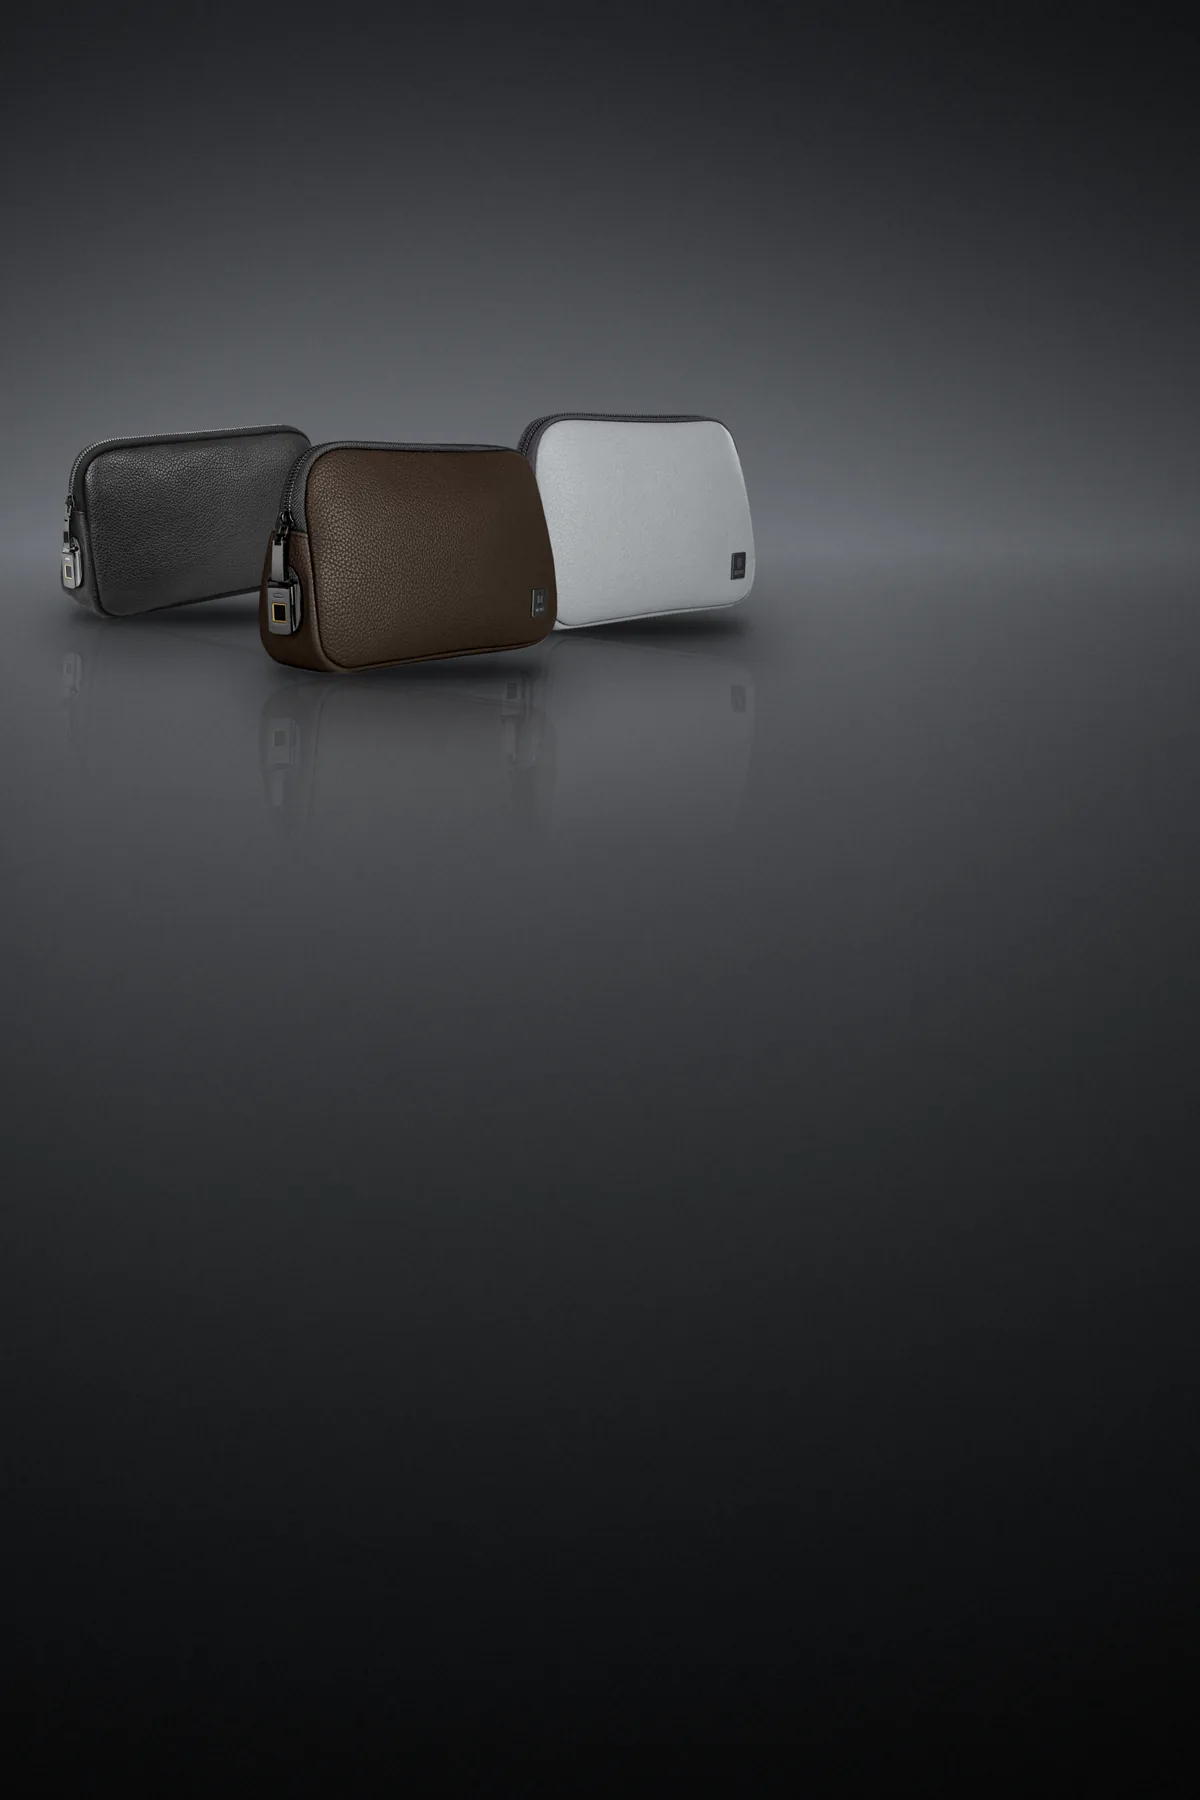
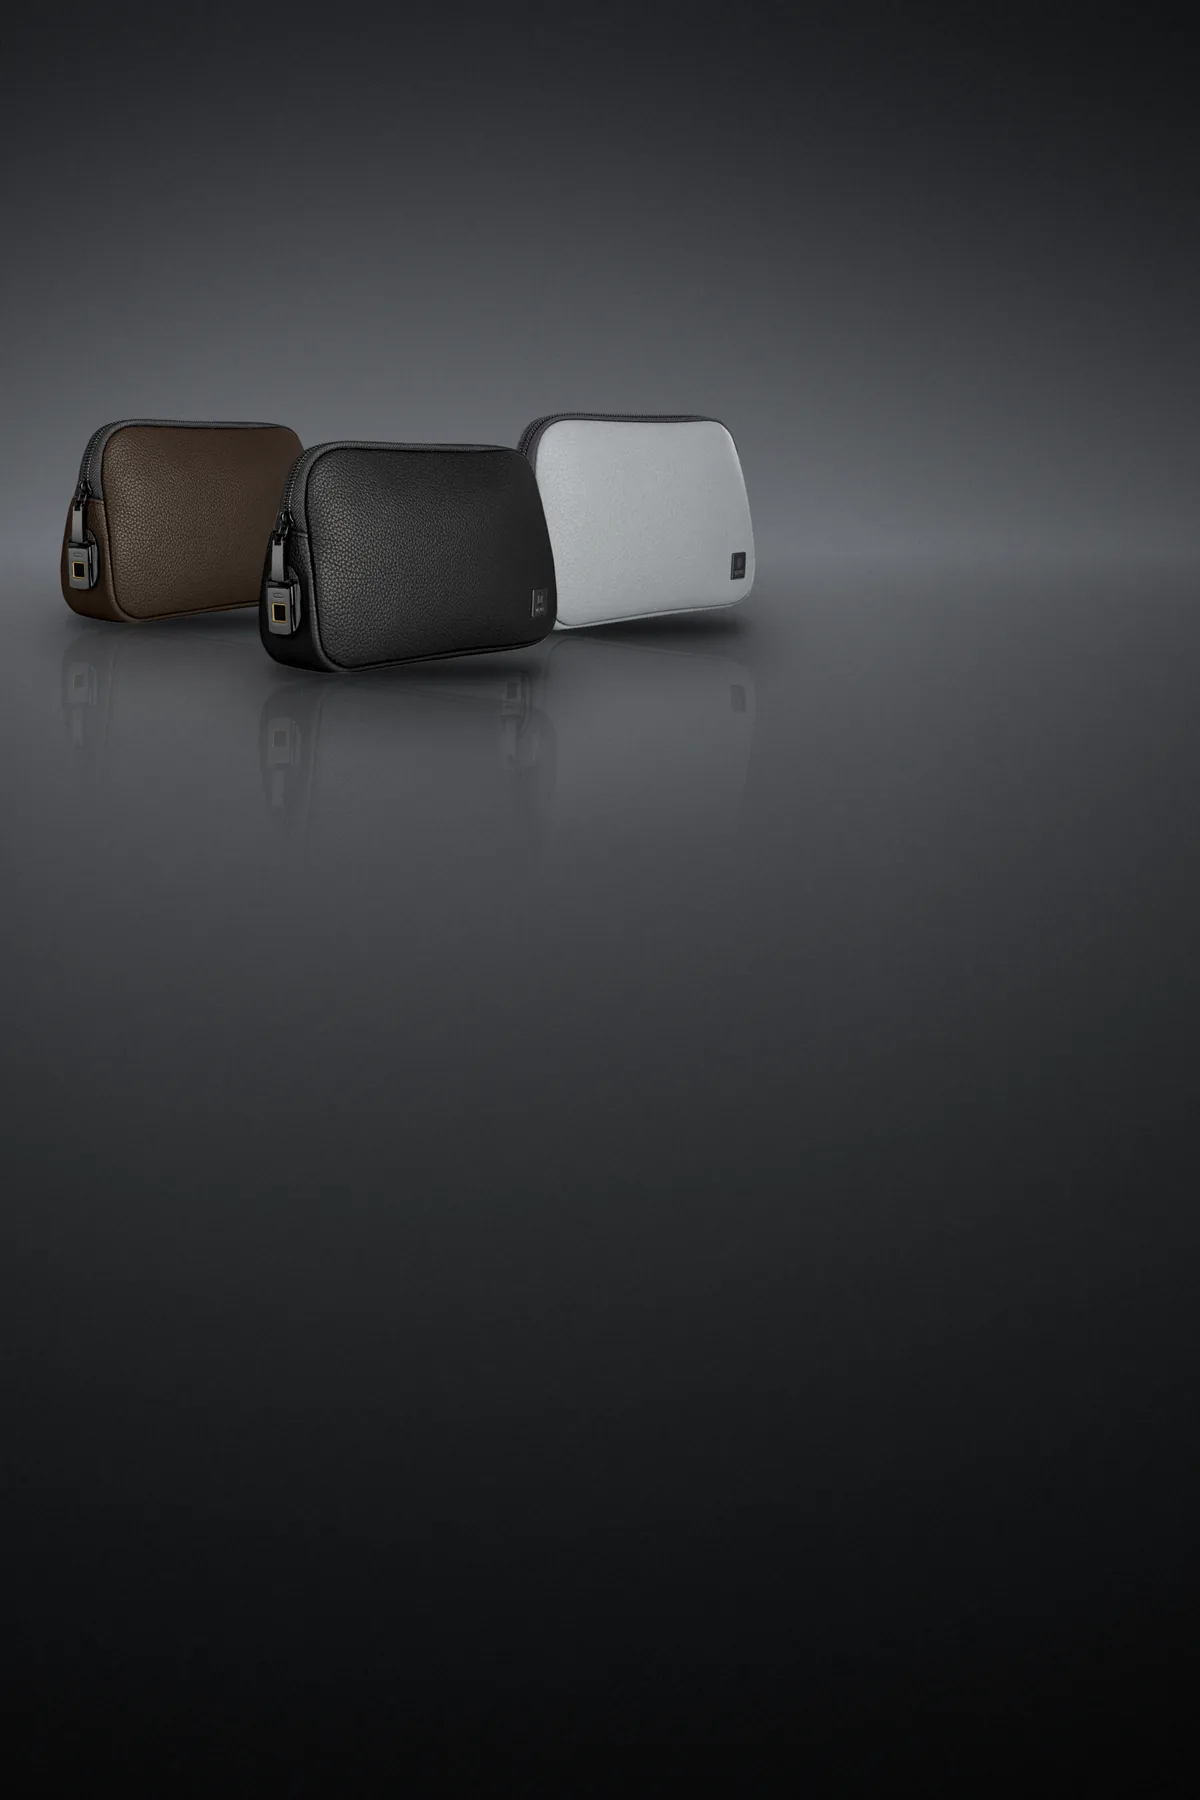
Hero: all three bags turned the same way (the black made from the brown render), black in front, four posters between Amir's two photos

Changed region(s): [[0.0308, 0.2178, 0.2467, 0.3422]]

diff --git a/backend/shop/views.py b/backend/shop/views.py
@@ -31,17 +31,16 @@ PROVINCES = [
 # originals in media/source-photos/look/): name, alt text, and the point kept in view when the picture
 # fills a frame of another shape (CSS object-position): on tall screens, and on wide ones, where only a
 # band of the tall picture shows, around the bag.
-#   The bag-only posters (Amir, 2026-10-20: the black one first, then all three colours side by side):
-# WiWU's studio renders on a dark studio sweep (tools/hero_slides.py), the bags left of centre so the
-# headline stays clear. Of Amir's photos of the bag in use, these two.
+#   Four posters of the bag alone (Amir, 2026-10-20: black first, then all three colours side by side,
+# all turned the same way) between Amir's two photos of it in use: WiWU's studio renders on a dark studio
+# sweep (tools/hero_slides.py), the bags left of centre so the headline stays clear.
 LOOK = [
     ('bag-black', 'کیف ویوو آلفا مشکی، با قفل اثر انگشت و پلاک برند', '0% 50%', '50% 25%'),
-    ('bag-colors', 'کیف ویوو آلفا در سه رنگ مشکی، قهوهای و سفید، کنار هم', '0% 50%', '50% 25%'),
     ('in-the-car', 'کیف ویوو آلفا جلوی دوربین، داخل خودرو', '50% 62%', '50% 62%'),
+    ('bag-colors', 'کیف ویوو آلفا در سه رنگ مشکی، قهوهای و سفید، کنار هم', '0% 50%', '50% 25%'),
+    ('plate', 'نمای نزدیک کیف ویوو آلفا در دست: چرم دانهدار و پلاک فلزی برند', '50% 45%', '50% 36%'),
     ('bag-brown', 'کیف ویوو آلفا قهوهای، با قفل اثر انگشت و پلاک برند', '0% 50%', '50% 25%'),
     ('bag-silver', 'کیف ویوو آلفا سفید نقرهای، با قفل اثر انگشت', '0% 50%', '50% 25%'),
-    ('plate', 'نمای نزدیک کیف ویوو آلفا در دست: چرم دانهدار و پلاک فلزی برند', '50% 45%', '50% 36%'),
-    ('bag-brown-back', 'پشت کیف ویوو آلفا قهوهای: جیب زیپدار و بند مچی', '0% 50%', '50% 25%'),
 ]
 
 CLAIM_TYPES = {'image/jpeg', 'image/png', 'image/webp', 'image/heic', 'image/heif', 'application/pdf'}

diff --git a/tools/black_render.py b/tools/black_render.py
@@ -1,0 +1,38 @@
+"""The black bag at the brown and silver renders' angle (2026-10-20). WiWU's black render
+(media/source-photos/wiwu/black-three-quarter.jpg) is from another angle, so the hero's posters would show
+it turned differently from the other two. This takes the brown render and makes its leather black, as on
+the black render: neutral, the same brightness, the grain a little stronger. The lock, the zipper and the
+logo plate are the same on both bags and stay as they are.
+
+    python tools/black_render.py   (writes media/source-photos/wiwu/black-render-front.jpg)
+"""
+from pathlib import Path
+
+import cv2
+import numpy as np
+from PIL import Image
+
+ROOT = Path(__file__).resolve().parent.parent
+SRC = ROOT / 'media' / 'source-photos' / 'wiwu' / 'brown-render-front.jpg'
+OUT = ROOT / 'media' / 'source-photos' / 'wiwu' / 'black-render-front.jpg'
+# The leather's brightness (luma of the sRGB values, 0..1) on the middle of the front, measured on both renders.
+BROWN_MEAN, BLACK_MEAN = 0.255, 0.239
+GRAIN = 1.3  # the black render's grain shows a little more
+
+
+def main():
+    rgb = np.asarray(Image.open(SRC).convert('RGB')).astype(np.float32) / 255
+    hsv = cv2.cvtColor(rgb, cv2.COLOR_RGB2HSV)
+    h, s, v = hsv[..., 0], hsv[..., 1], hsv[..., 2]
+    # The leather: brown (not the lock's grey metal, the zipper's grey tape or the sensor's gold frame).
+    leather = ((h > 8) & (h < 34) & (s > 0.15) & (v < 0.55)).astype(np.float32)
+    leather = cv2.GaussianBlur(leather, (0, 0), 1.5)[..., None]
+    luma = rgb @ np.array([0.2126, 0.7152, 0.0722], np.float32)
+    black = np.clip(BLACK_MEAN + (luma - BROWN_MEAN) * GRAIN, 0, 1)[..., None] * np.ones(3, np.float32)
+    out = rgb * (1 - leather) + black * leather
+    Image.fromarray((np.clip(out, 0, 1) * 255).round().astype(np.uint8)).save(OUT, quality=95)
+    print(OUT)
+
+
+if __name__ == '__main__':
+    main()

diff --git a/tools/hero_slides.py b/tools/hero_slides.py
@@ -7,12 +7,11 @@ One render: it stands left of centre, high, a third of the frame wide. Several: 
 as fractions of the frame) and width (of the frame), drawn in the order given, so the last is in front:
 
     W=media/source-photos/wiwu
-    python tools/hero_slides.py bag-black.png steel $W/black-three-quarter.jpg
+    python tools/hero_slides.py bag-black.png steel $W/black-render-front.jpg   (from tools/black_render.py)
     python tools/hero_slides.py bag-brown.png brown $W/brown-render-front.jpg
-    python tools/hero_slides.py bag-brown-back.png brown $W/brown-render-back.jpg
     python tools/hero_slides.py bag-silver.png silver $W/white-three-quarter.png
-    python tools/hero_slides.py bag-colors.png graphite $W/black-three-quarter.jpg@0.16,0.29,0.22 \\
-        $W/white-three-quarter.png@0.52,0.29,0.22 $W/brown-render-front.jpg@0.34,0.31,0.25
+    python tools/hero_slides.py bag-colors.png graphite $W/brown-render-front.jpg@0.16,0.29,0.22 \\
+        $W/white-three-quarter.png@0.52,0.29,0.22 $W/black-render-front.jpg@0.34,0.31,0.25   (black in front)
 
 Writes a 1600 x 2400 PNG; media/source-photos/look/bag-*.jpg are those, and the hero's 1200/600 px files
 come from them (frontend/public/images/look/).

diff --git a/HANDOFF.md b/HANDOFF.md
@@ -24,10 +24,11 @@ This page is the short version, plus what isn't written down anywhere else.
   brand in the specs and the search data), in **black, brown and silver-white («سفید»)**, all on sale at
   one price: **14,100,000 toman**, shipping from Dubai included (the client, 2026-10-20).
 - **The home page, top to bottom** (README, *Look* and *The hero and the 3D bag*):
-  1. **Hero:** a campaign page. Seven pictures over the whole first screen, one at a time: posters of
-     the bag alone (black first, all three colours side by side, brown front and back, silver) and two of
-     Amir's photos of it in use, with a large line, the price and a compact buy button at the bottom; no
-     thumbnails (2026-10-20, not deployed yet). The header lies over it, see-through. Colour dots.
+  1. **Hero:** a campaign page. Six pictures over the whole first screen, one at a time: four posters of
+     the bag alone, all turned the same way (black first, all three colours with black in front, brown,
+     silver) between two of Amir's photos of it in use, with a large line, the price and a compact buy
+     button at the bottom; no thumbnails (2026-10-20, not deployed yet). The header lies over it,
+     see-through. Colour dots.
   2. **جزء به جزء:** the 3D bag with a tab per side, numbered pins, the parts listed beside it, colour dots
      that recolour the bag. The backup where the 3D can't run: WiWU's studio photos with the same numbers.
   3. **The lock** (dark), the hold-to-unlock demo; **specs** with the size drawn over a centimetre mat;
@@ -234,9 +235,9 @@ node tools/compare.mjs && .venv-3d/Scripts/python tools/dev/compose.py
 
 ## The site's photos
 
-- **Hero:** `frontend/public/images/look/` (600, 1200 px), from two of Amir's photos and five bag-only
+- **Hero:** `frontend/public/images/look/` (600, 1200 px), from two of Amir's photos and four bag-only
   posters (`tools/hero_slides.py` from WiWU's renders in `media/source-photos/wiwu/`, its docstring has the
-  commands) in `media/source-photos/look/` (`views.LOOK`: alt text and crop points for tall and wide
+  commands; the black render at the others' angle is made by `tools/black_render.py`) in `media/source-photos/look/` (`views.LOOK`: alt text and crop points for tall and wide
   screens). Amir's other four photos stay in `media/source-photos/look/`, off the site.
 - **Logo:** WiWU's marks, traced, in the site's colours (`shop/wiwu_logo.html`: the text's colour, the
   i-dots green; Amir didn't want WiWU's navy, 2026-10-20). The favicon is the emblem on ink.

diff --git a/README.md b/README.md
@@ -88,12 +88,13 @@ add them to a group. Sign-in lasts two weeks, 10 attempts per 15 minutes per add
 
 ## The hero and the 3D bag (`frontend/src/islands/home.ts`, `frontend/src/bag3d/`, `frontend/src/islands/bag3d.ts`, `tools/build_model.py`)
 
-The home page opens as a campaign page (Amir's pick of three designs, 2026-10-18): seven pictures, one
+The home page opens as a campaign page (Amir's pick of three designs, 2026-10-18): six pictures, one
 at a time over the whole first screen (`views.LOOK`, the originals in `media/source-photos/look/`, the
-site's copies 600 and 1200 px wide in `public/images/look/`). Five are posters of the bag alone, the black
-one first, then all three colours side by side, brown from the front and the back, silver (WiWU's studio
-renders on a dark studio sweep, `tools/hero_slides.py`, 2026-10-20); two are Amir's photos of the bag in
-use. A large line at the bottom over a dark fade, the price and a compact buy button; nothing else (Amir,
+site's copies 600 and 1200 px wide in `public/images/look/`). Four are posters of the bag alone, all turned
+the same way: black first, then all three colours side by side with black in front, brown, silver (WiWU's
+studio renders on a dark studio sweep, `tools/hero_slides.py`, 2026-10-20; WiWU's black render is from
+another angle, so the black is their brown render made black, `tools/black_render.py`). Between them, two
+of Amir's photos of the bag in use. A large line at the bottom over a dark fade, the price and a compact buy button; nothing else (Amir,
 2026-10-20: the thumbnails, pause button and counter crowded it). The header lies over the picture,
 see-through until the hero scrolls away (`data-header="clear"`). Each picture has a crop point for tall
 screens and one for wide ones, where only a band of the tall picture shows. Every 6 s the next fades in
